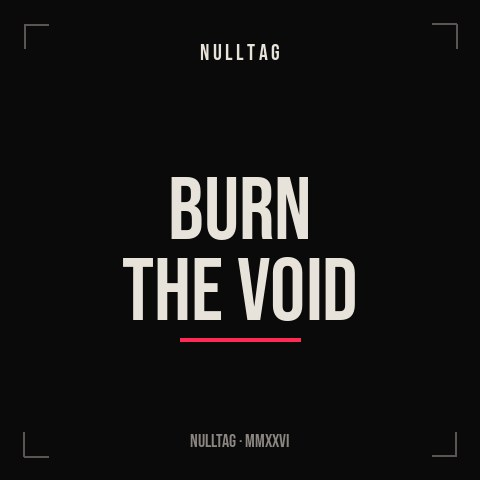
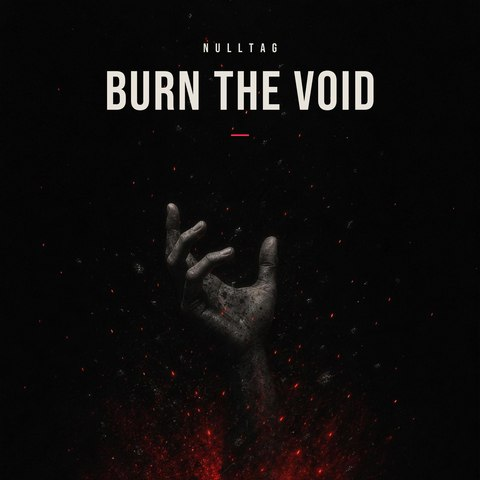
Echtes Cover für Burn the Void (aus DJIS-Release-Ordner)
- releases/NULLTAG-20_burn_the_void/covers/00_burn_the_void.jpg (3000px) auf 480px
- sw.js-Cache auf v3 für installierte Clients
- Damit 7 von 8 Cover echt; Pilze hat noch kein Artwork (ROADMAP)

Claude-Session: https://claude.ai/code/session_01VpRFfNygYcg2saRFDEkUVi

diff --git a/sw.js b/sw.js
@@ -1,6 +1,6 @@
 // NULLTAG Learn – Service Worker: App-Shell vorab, Assets zur Laufzeit.
 // Version bei jedem Release hochzaehlen, sonst bleibt der alte Cache aktiv.
-const CACHE = 'nulltag-learn-v2';
+const CACHE = 'nulltag-learn-v3';
 const SHELL = ['./', 'index.html', 'manifest.json',
   'assets/icons/icon-192.png', 'assets/icons/icon-512.png', 'assets/icons/icon-maskable-512.png'];
 

diff --git a/ROADMAP.md b/ROADMAP.md
@@ -61,13 +61,12 @@ Stand: 2026-07-19 · 22 PRs gemerged · Gesamt-Audit gruen (36 Basis-Checks + 83
    sind jetzt echte Piano-Arrangements mit Hand-Flags. Tonart-Meta bleibt die
    Kuenstler-Angabe (Erkennung sieht bei Burn the Void die Parallele e-Moll,
    bei Paper Kings f-Moll – funktional irrelevant, da live erkannt wird).
-3. **Echte Cover**: 6 von 8 erledigt 2026-07-19 (Quelle: NULLTAG-ch/music-site
-   covers/, auf 480px verkleinert; sw.js-CACHE auf v2 gebumpt). Noch Platzhalter:
-   - Burn the Void: Artwork existiert auf SoundCloud
-     (i1.sndcdn.com/artworks-LzjXnqBvZG8Akna6-kcttKw-t500x500.jpg), CDN ist aus
-     der Sandbox geblockt -> Datei hochladen oder in music-site/covers/ ablegen.
-   - Pilze, Plaene und Panik: nirgends ein Release-Artwork gefunden
-     (weder music-site noch nulltag-cd) -> Artwork bereitstellen.
+3. **Echte Cover**: 7 von 8 erledigt (Quellen: NULLTAG-ch/music-site covers/ und
+   DJIS releases/NULLTAG-20_burn_the_void/covers/, auf 480px verkleinert;
+   sw.js-CACHE inzwischen auf v3). Einzig offener Platzhalter:
+   - Pilze, Plaene und Panik: hat laut Ivan noch kein Cover (nirgends ein
+     Release-Artwork: weder music-site noch nulltag-cd noch DJIS). Sobald eines
+     existiert: nach assets/covers/pilze_plaene_panik.jpg (480px) + CACHE bumpen.
 4. **Higher Ground Meta pruefen**: Level 2 und c-Moll sind geschaetzt.
 
 ## Naechste Features (Ideen)